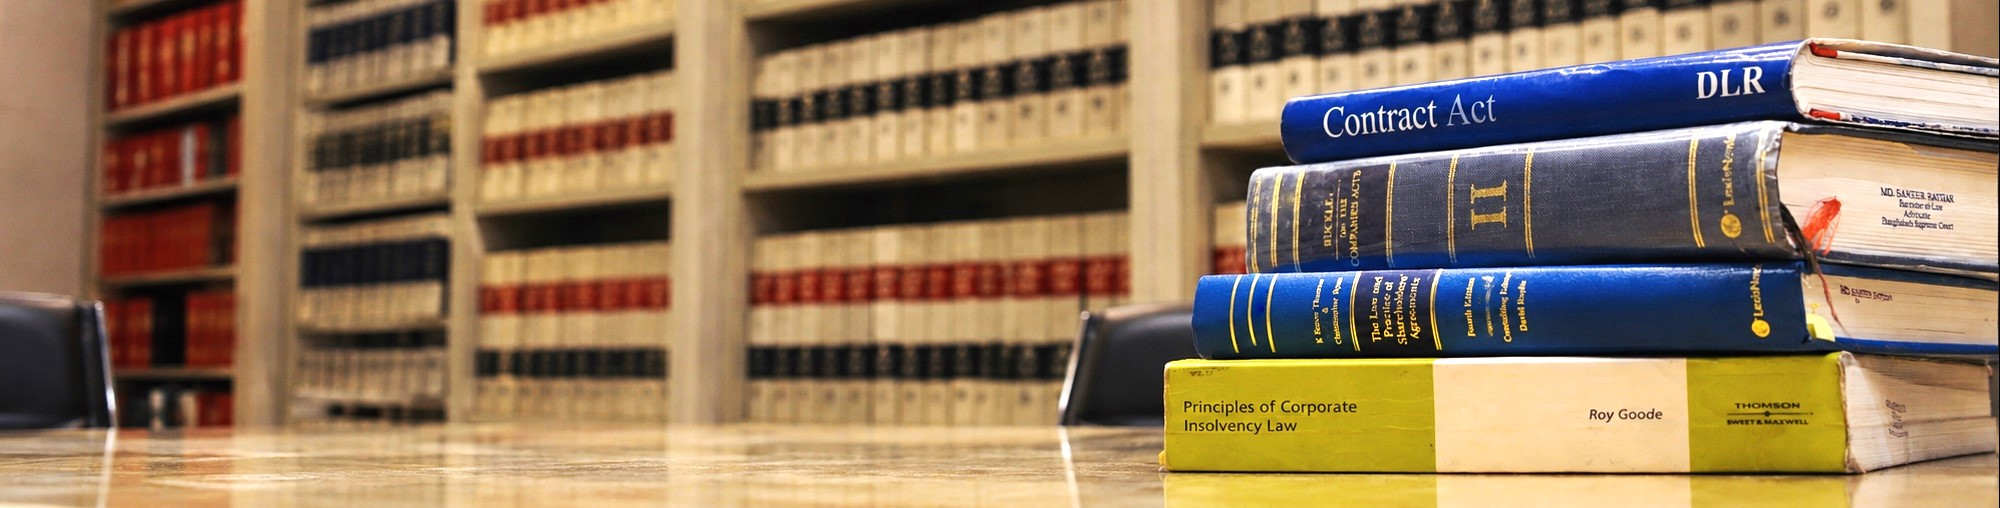
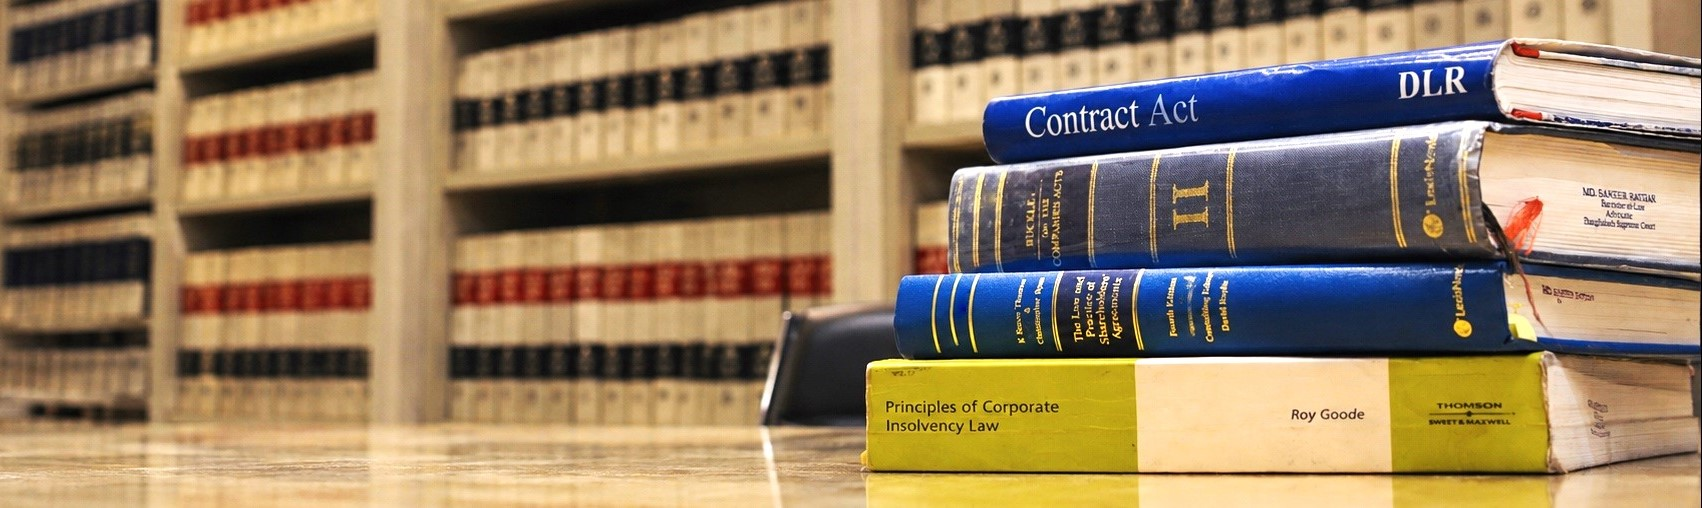
added

diff --git a/client/components/layout/TopBar.tsx b/client/components/layout/TopBar.tsx
@@ -10,12 +10,26 @@ import { MdAlternateEmail } from "react-icons/md";
 import { FaLinkedinIn } from "react-icons/fa";
 
 const SOCIAL_LINKS = [
-  { href: "https://facebook.com/sattarandco", label:<RiFacebookFill /> },
-  // { href: "https://linkedin.com/company/sattarandco", label: <BsLinkedin /> },
-  { href: "https://www.linkedin.com/company/sattar-co", label: <FaLinkedinIn /> },
-  { href: "+88 (02) 883 6629", label: <MdLocalPhone /> },
-  { href: "info@sattarandco.com", label: <MdAlternateEmail /> },
-  
+  {
+    href: "https://facebook.com/sattarandco",
+    label: <RiFacebookFill />,
+    external: true,
+  },
+  {
+    href: "https://www.linkedin.com/company/sattar-co",
+    label: <FaLinkedinIn />,
+    external: true,
+  },
+  {
+    href: "tel:+880288366629",
+    label: <MdLocalPhone />,
+    external: false,
+  },
+  {
+    href: "mailto:info@sattarandco.com",
+    label: <MdAlternateEmail />,
+    external: false,
+  },
 ];
 
 export default function TopBar() {
@@ -53,12 +67,13 @@ export default function TopBar() {
         </div> */}
 
         <div className="flex items-center gap-2 mt-[2px]">
-          {SOCIAL_LINKS.map(({ href, label }) => (
+          {SOCIAL_LINKS.map(({ href, label, external }) => (
             <a
-              
+              key={href}
               href={href}
-              target="_blank"
-              rel="noopener noreferrer"
+              {...(external
+                ? { target: "_blank", rel: "noopener noreferrer" }
+                : {})}
               className={
                 isHome
                   ? "text-black text-xl hover:text-red-600 transition-colors duration-300"

diff --git a/client/app/firm/page.tsx b/client/app/firm/page.tsx
@@ -8,7 +8,7 @@ import TestimonialSpotlight from "@/components/sections/TestimonialSpotlight";
 import RecognitionMarquee from "@/components/sections/RecognitionMarquee";
 import ImageSlider from "@/components/sections/ImageSlider";
 import firm from "@/data/firm.json";
-import heroImg from "../../public/images/ssd.jpeg";
+import heroImg from "../../public/images/5.webp";
 import founderImg from "../../public/firm/sattar.webp";
 import officeImg from "../../public/images/Firm-rotate-2.jpg";
 import img1 from "../../public/firm/firm1.webp";

diff --git a/client/components/navigation/Navbar.tsx b/client/components/navigation/Navbar.tsx
@@ -112,7 +112,7 @@ export default function Navbar() {
             )}
           >
             {/* {solid?<img src={blogo.src} alt="" className="w-24 sm:w-28 lg:w-30" /> : <img src={wlogo.src} alt="" className="w-24 sm:w-28 lg:w-32 opacity-0" />} */}
-            <img src={blogo.src} alt="" className="w-24 sm:w-28 lg:w-40 " />
+            <img src={blogo.src} alt="" className="w-24 sm:w-28 lg:w-40 mb-1" />
           </Link>
 
           <ul

diff --git a/client/app/publications/page.tsx b/client/app/publications/page.tsx
@@ -6,7 +6,7 @@ import { ArrowUpRight } from "lucide-react";
 import SectionLabel from "@/components/ui/SectionLabel";
 import RevealText from "@/components/ui/RevealText";
 import publications from "@/data/publications.json";
-import img1 from "../../public/images/img.png";
+import img1 from "../../public/images/asasas.jpeg";
 import Image from "next/image";
 
 // Fixed order rather than deriving from the data, so the tab order never

diff --git a/client/app/careers/page.tsx b/client/app/careers/page.tsx
@@ -2,7 +2,7 @@ import type { Metadata } from "next";
 import RevealText from "@/components/ui/RevealText";
 import CareersInteractive from "@/components/sections/CareersInteractive";
 import Image from "next/image";
-import img1 from "../../public/images/IMG_5353.JPG.jpeg";
+import img1 from "../../public/images/career.png";
 export const metadata: Metadata = {
   title: "Careers",
   description:

diff --git a/client/app/contact/page.tsx b/client/app/contact/page.tsx
@@ -13,7 +13,7 @@ export const metadata: Metadata = {
 
 export default function ContactPage() {
   return (
-    <section className="grain relative overflow-hidden bg-white pt-52 pb-24 ">
+    <section className="grain relative overflow-hidden bg-white pt-[180px] pb-24 ">
       {/* <FloatingBookImages /> */}
 
       <div className="relative z-10 max-w-content mx-auto px-6 md:px-10">

diff --git a/client/app/insights/page.tsx b/client/app/insights/page.tsx
@@ -7,7 +7,7 @@ import Link from "next/link";
 import Image from "next/image";
 import { ArrowUpRight } from "lucide-react";
 import insights from "@/data/insights.json";
-import img1 from "../../public/images/101.webp";
+import img1 from "../../public/images/IMG_508s9.webp";
 
 function InsightsContent() {
   const router = useRouter();
